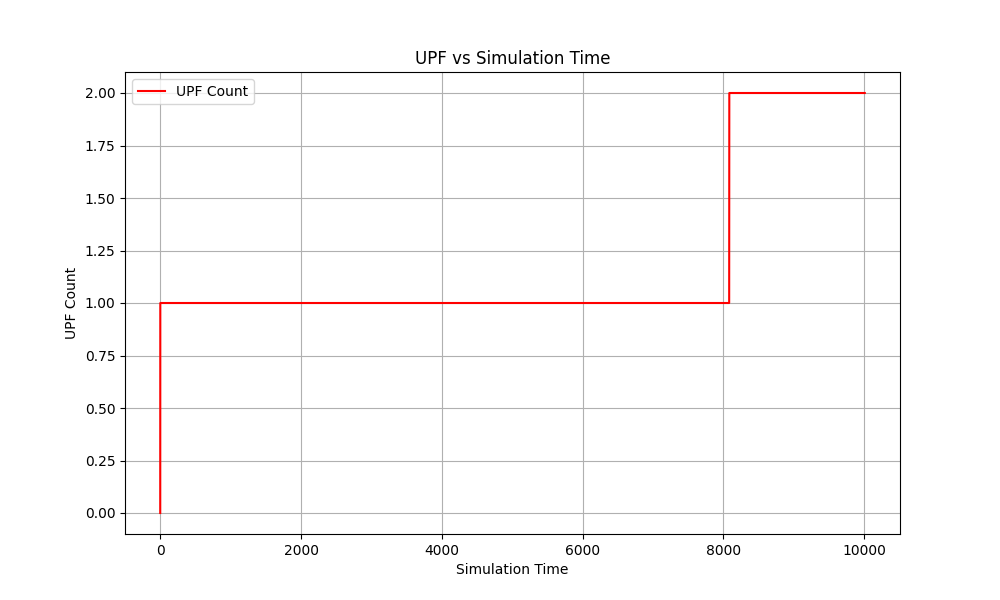
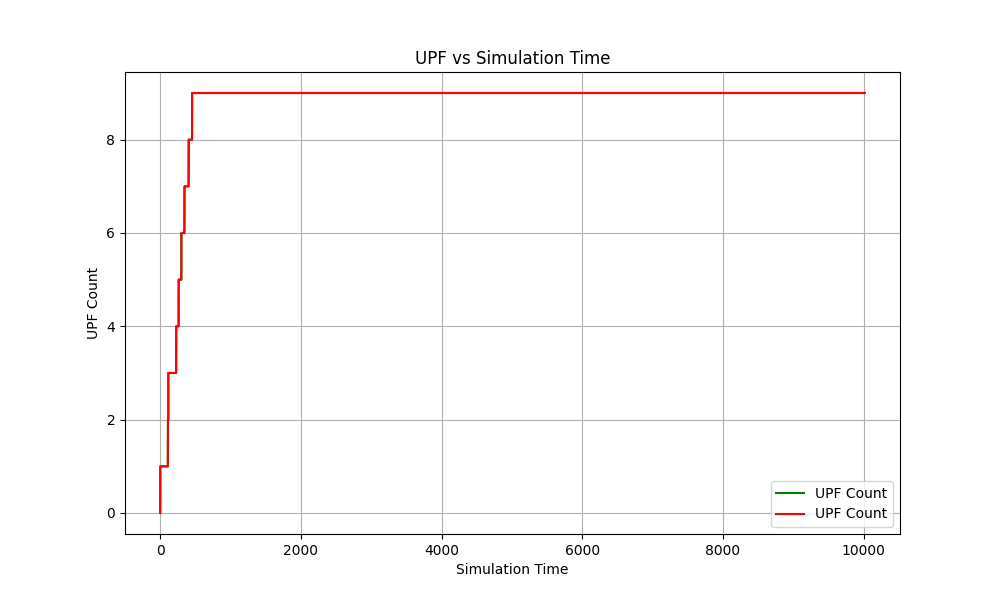
Added case of sorting

diff --git a/main.py b/main.py
@@ -133,9 +133,19 @@ class Scheduler:
         """
         self.free_slots = sum(self.max_sessions_per_upf - len(upf.sessions) for upf in self.upfs)
 
-    def generate_pdu_session(self):
+    def get_upf_with_lowest_sessions(self):
+        """
+        Get the UPF with the lowest number of sessions.
+        If multiple UPFs have the same lowest number of sessions, randomly select one.
+        """
+        upfs_sorted = sorted(self.upfs, key=lambda upf: len(upf.sessions))
+        lowest_sessions_upfs = [upf for upf in upfs_sorted if len(upf.sessions) == len(upfs_sorted[0].sessions)]
+        return random.choice(lowest_sessions_upfs)
+
+    def generate_pdu_session(self, case):
         """
         Generate a new PDU session event.
+        :param case: Case 1 (default) or Case 2 (select UPF with the lowest sessions).
         """
         message = f"Time: {self.current_time}, UE generates PDU session"
         self._log(message)
@@ -145,7 +155,13 @@ class Scheduler:
         session = PDUSession(session_id, self.current_time, duration)
 
         # Find an available UPF
-        available_upf = next((upf for upf in self.upfs if len(upf.sessions) < self.max_sessions_per_upf), None)
+        if case == 1:
+            available_upf = next((upf for upf in self.upfs if len(upf.sessions) < self.max_sessions_per_upf), None)
+        elif case == 2:
+            available_upf = self.get_upf_with_lowest_sessions() if self.upfs else None
+        else:
+            message = f"Time: {self.current_time}, No UPF available"
+            self._log(message)
 
         # If no available UPF, scale out if possible
         if not available_upf:
@@ -232,7 +248,8 @@ class Scheduler:
         """
 
         pdu_counts = []  # List to store PDU counts
-        upf_counts = []  # List to store UPF counts
+        upf_counts_case1 = []  # List to store UPF counts for Case 1
+        upf_counts_case2 = []  # List to store UPF counts for Case 2
         time_points = []  # List to store time points
 
         # Schedule the initial PDU session generation
@@ -247,11 +264,13 @@ class Scheduler:
             self.current_time = event.time
 
             pdu_counts.append(self.session_counter)  # Record PDU count
-            upf_counts.append(self.next_upf_id)  # Record UPF count
+            upf_counts_case1.append(self.next_upf_id)  # Record UPF count for Case 1
+            upf_counts_case2.append(self.next_upf_id)  # Record UPF count for Case 2
             time_points.append(self.current_time)  # Record time
 
             if event.event_type == EVENT_GENERATE_PDU_SESSION:
-                self.generate_pdu_session()
+                self.generate_pdu_session(case=1)  # Run Case 1
+                self.generate_pdu_session(case=2)  # Run Case 2
 
                 # Schedule the next PDU session generation
                 next_generation_time = self.current_time + random.randint(1, 10)  # Random interval between 1 and 10
@@ -288,7 +307,8 @@ class Scheduler:
 
         # Plot UPF against simulation time
         plt.figure(figsize=(10, 6))
-        plt.plot(time_points, upf_counts, label='UPF Count', color='red')
+        plt.plot(time_points, upf_counts_case1, label='UPF Count', color='green')
+        plt.plot(time_points, upf_counts_case2, label='UPF Count', color='red')
         plt.xlabel('Simulation Time')
         plt.ylabel('UPF Count')
         plt.title('UPF vs Simulation Time')
